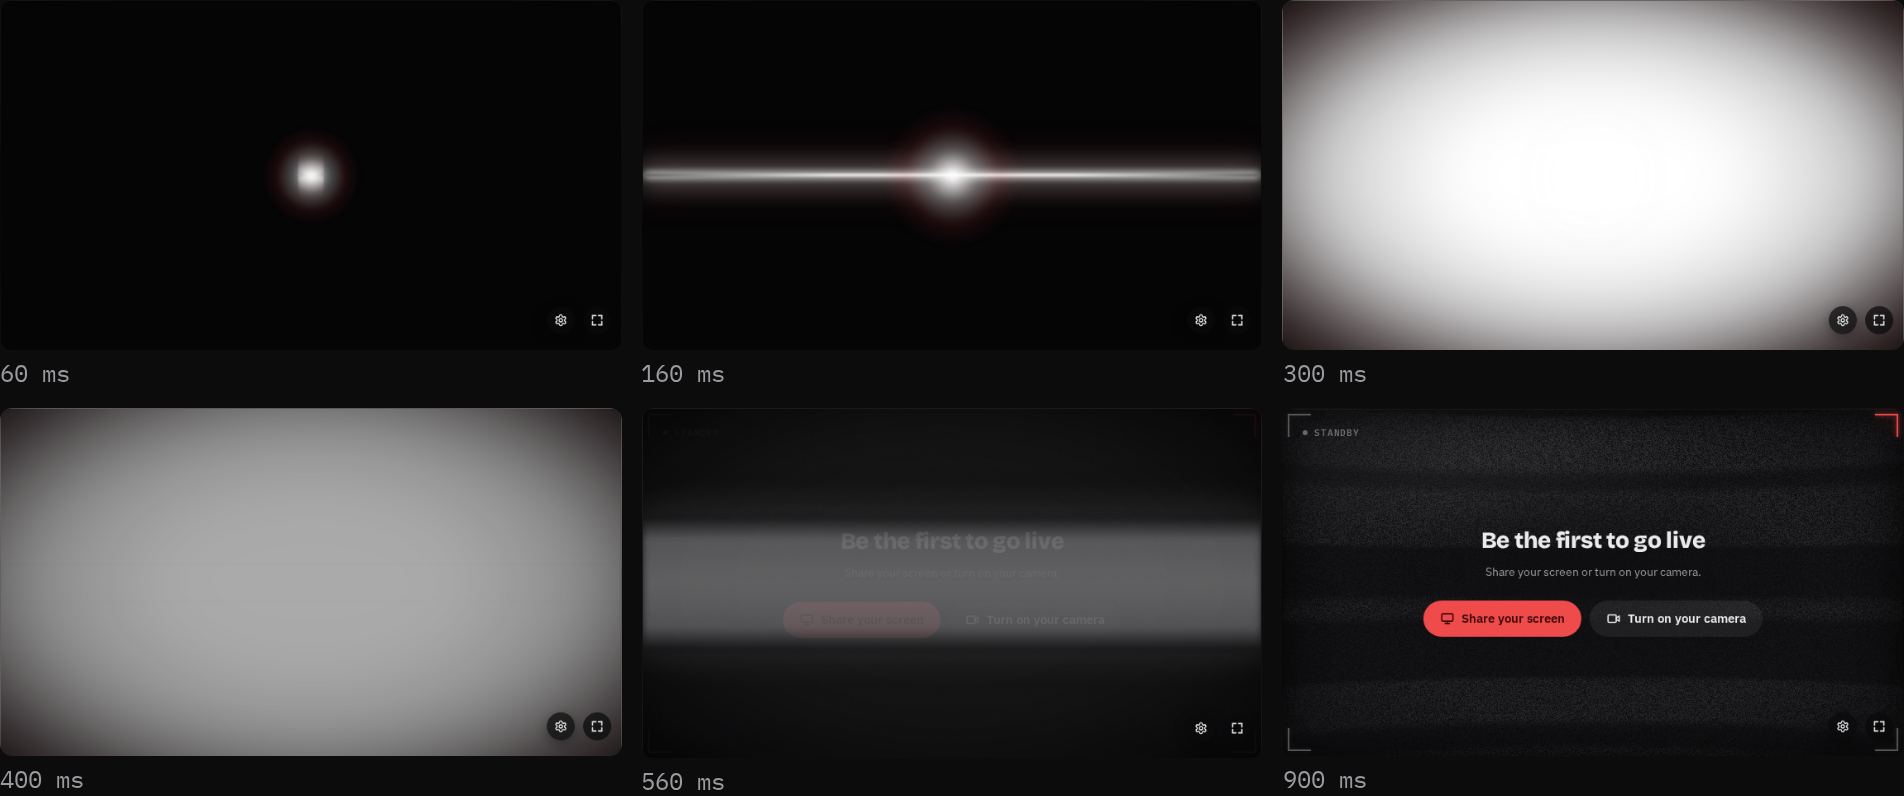
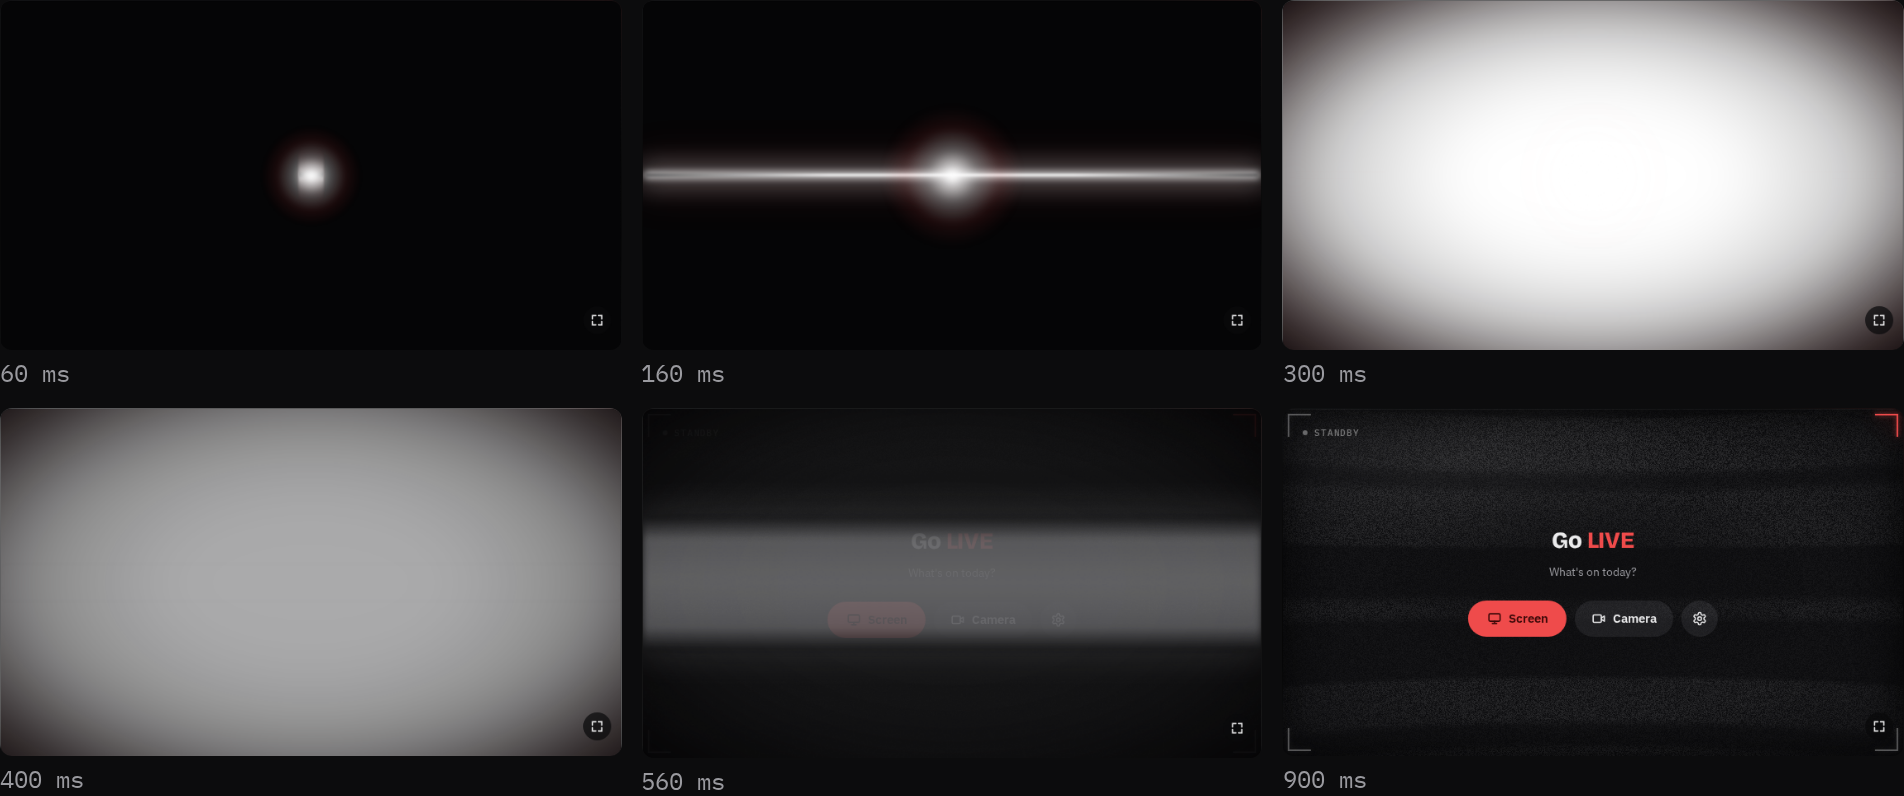
fix(web): the settings from the standby cog get the stage's height where it's short; review fixes (0138)
Where the room above the cog is short of the panel (sideways, a small
window), the panel takes the stage's whole height. The empty stage's cog
only while nobody is live, its row watched for the panel's place, a hover
like the second way's. The LIVE style test covers the standby screen
again. The design sheet: no cog in the sideways corner, the settings'
third origin, phones sideways at 34 px, the turn-on picture retaken.

diff --git a/app/src/components/stage/Stage.tsx b/app/src/components/stage/Stage.tsx
@@ -44,6 +44,8 @@ import styles from "./Stage.module.css";
 
 /** The settings over the cog sit this far above the round buttons (design decision 9). */
 const ROW_GAP = 10;
+/** The settings panel's height at its tallest tab, with its gap: less room than this above the cog, and it scrolls. */
+const PANEL_ROOM = 440;
 
 type Props = {
   /** Everyone with a live stream, the longest sharing first. */
@@ -345,16 +347,19 @@ export function Stage({
       const c = cog.getBoundingClientRect();
       host.style.setProperty("--cog-x", `${c.left + c.width / 2 - h.left}px`);
       host.style.setProperty("--above-row", `${h.bottom - (row.getBoundingClientRect().top - sliding) + ROW_GAP}px`);
-      // Sideways with nobody live, the cog is in the screen's middle: the panel takes the screen's
-      // height instead of the half above it, so it doesn't scroll (spec 0138).
-      if (nobodyLive && sideways) host.style.setProperty("--above-row", `${ROW_GAP}px`);
+      // With nobody live the cog is in the stage's middle (spec 0138): where the room above it is
+      // short of the panel (sideways, a small window), the panel takes the stage's whole height
+      // instead, so it doesn't scroll.
+      const above = row.getBoundingClientRect().top - h.top;
+      if (nobodyLive && (sideways || above < PANEL_ROOM)) host.style.setProperty("--above-row", `${ROW_GAP}px`);
     };
     place();
     window.addEventListener("resize", place);
     // The row changes too (the volume comes and goes with who's on the stage).
     const watch = typeof ResizeObserver === "undefined" ? null : new ResizeObserver(place);
     watch?.observe(host);
-    const row = controlsRef.current.querySelector("[data-buttons]");
+    // The row the cog is in: the controls', or with nobody live the empty stage's (spec 0138).
+    const row = (nobodyLive ? frameRef.current : controlsRef.current)?.querySelector("[data-buttons]");
     if (row) watch?.observe(row);
     // And once the player has finished sliding (a slide doesn't resize anything).
     const box = boxRef.current;
@@ -540,7 +545,8 @@ export function Stage({
         <EmptyStage
           canShareScreen={controls.canShareScreen}
           onStart={startMine}
-          onSettings={toggleSettings}
+          // The cog only while nobody is live: a stream loading has its own (spec 0138).
+          onSettings={big ? undefined : toggleSettings}
         />
       );
 

diff --git a/app/src/components/stage/EmptyStage.module.css b/app/src/components/stage/EmptyStage.module.css
@@ -175,7 +175,8 @@
     background: #f36a6a;
   }
 
-  .ghost:hover {
+  .ghost:hover,
+  .go .cog.cog:hover {
     background: rgba(235, 235, 236, 0.14);
   }
 }
@@ -188,8 +189,7 @@
 
 /*
  * A phone, upright or sideways (spec 0138): the desktop's screen at a phone's sizes, in the
- * stage's middle: a smaller heading and line, two equal pills (wrapping one under the other where
- * they don't fit side by side), 8 px apart.
+ * stage's middle: a smaller heading and line, and the row's buttons the stage's own size.
  */
 :global(:is([data-layout="phone"], [data-layout="sideways"])) .focus {
   gap: 8px;
@@ -270,8 +270,8 @@
   }
 }
 
-/* A short stage (a phone, upright or sideways): the heading and the buttons, nothing else,
-   centred above the stage's own buttons at the bottom. */
+/* A short stage: finer corners, no line on a desktop's (a phone keeps it), and the way to start
+   in its middle both ways, the stage's own buttons in their corner (spec 0138). */
 @container (max-height: 320px) {
   .empty {
     --arm: 16px;

diff --git a/app/src/styles/layout.test.ts b/app/src/styles/layout.test.ts
@@ -188,10 +188,12 @@ describe("clear of the phone's own bars (spec 0141)", () => {
     expect(rule(home, ".wrap")).toMatch(/background:/);
   });
 
-  it("shows LIVE in capitals and the accent on the sign-in page, written as a word (design decision 7)", () => {
-    const em = rule(home, ".title em");
-    expect(em).toMatch(/text-transform:\s*uppercase/);
-    expect(em).toMatch(/color:\s*var\(--accent\)/);
+  it("shows LIVE in capitals and the accent, written as a word (design decision 7)", () => {
+    for (const css of [home, sheet("components/stage/EmptyStage.module.css")]) {
+      const em = rule(css, ".title em");
+      expect(em).toMatch(/text-transform:\s*uppercase/);
+      expect(em).toMatch(/color:\s*var\(--accent\)/);
+    }
   });
 
   it("fits sign-in sideways: the mark and headline, then what to do, side by side", () => {

diff --git a/app/src/components/stage/EmptyStage.test.tsx b/app/src/components/stage/EmptyStage.test.tsx
@@ -36,6 +36,7 @@ describe("the empty stage, a camera waiting (spec 0123)", () => {
     const { rerender } = render(<EmptyStage />);
     // An invitation, not an order, wherever it is (spec 0138).
     expect(screen.getByText("What's on today?")).toBeInTheDocument();
+    expect(screen.queryByText(/or turn on your camera/i)).not.toBeInTheDocument();
     rerender(<EmptyStage canShareScreen={false} />);
     expect(screen.getByText("What's on today?")).toBeInTheDocument();
     expect(screen.queryByText(/turn on your camera\./i)).not.toBeInTheDocument();

diff --git a/docs/design.md b/docs/design.md
@@ -254,7 +254,7 @@ Body line height is 1.5; headings balance their lines (`text-wrap: balance`). Fo
 
 ![The settings over the cog on desktop, Screen tab](images/design/settings-popover.png) ![The settings sheet on a phone](images/design/settings-sheet.png) ![The settings over the cog on a phone held sideways, in two columns](images/design/settings-sideways.png)
 
-The settings for what you send, from the cog on my own stream, or from Go live's menu (then over Go live).
+The settings for what you send, from the cog on my own stream, from Go live's menu (then over Go live), or, with nobody live, from the cog in the standby row; there, where the room above the cog is short of the panel (sideways, a small window), the panel takes the stage's whole height instead.
 
 - **Desktop, tablets and phones held sideways: over the cog.** A popover **centred on the cog** (or on Go live), **10 px above the round buttons** (never behind them) and never past the player's sides; it fades in and rises 6 px. **Every tab has the same height**, the tallest one's, so switching tabs never moves the tabs under the pointer; at least 240 px, at most the room above the buttons (then it scrolls inside). Its width follows the player: a fifth of it, **280 to 320 px**. **Sideways it uses the width:** up to 560 px, in **two columns**, what you pick on the left (the preview and the camera, the window, the microphone) and how it's sent on the right (Quality, Mode, the voice's processing); **the left column stays put while the right one scrolls**. **Another stream taking the stage closes the settings:** they belong to the buttons they opened from. **A phone held upright** (its full-screen view too): a **bottom sheet**, no pull handle; the ✕, the cog or Escape closes it.
 - Frosted like the dropdown panels (the panel colour at 74%, blur 22 px, a 1 px white border at 8%), 16 px corners (20 px on top of the sheet). **One control height:** 30 px over the cog, 44 px in the sheet.
@@ -370,7 +370,7 @@ Turning switches layouts at once, and the stage keeps its place in the page, so 
 - **Viewfinder corners**, the screen's only frame: close to the stage's own edges on every layout, sideways too (the stage's buttons sit inside the bottom-right one), the top right red as in the logo. Finer and fainter on small stages (18 px arms, 1.5 px), and each **glows softly in its own colour**.
 - **Their light outside:** each corner glows outward too, a blurred L just outside the stage, a fade with no edge; still, following the ambilight's switch and brightness.
 - **"Standby"**, still, in small grey mono capitals with a grey dot (never red: that would mean recording), on larger stages only. Nothing else imitates equipment: no clock, meter, ruler, format tags or room number.
-- **The way to start**, with no frame of its own, in the stage's middle both ways: "Go **LIVE**" (LIVE in the accent), "What's on today?", then one row centred as a whole: **Screen**, **Camera** (one word each, two pills of one width, the first red, the second a soft fill) and a small round **settings** button, so the stage's corners hold only fullscreen. The settings open over it on a desktop, as the sheet on a phone held upright, and sideways at the screen's height. **On phones and tablets held upright** the same screen, smaller: the heading 20 px and the line 13 px, every button 34 px (the stage's own buttons' size), the camera first; a screen the browser can't share is the same pill, greyed, and a tap says why. The narrowest phone (280 px) shows only the row (the heading stays for screen readers).
+- **The way to start**, with no frame of its own, in the stage's middle both ways: "Go **LIVE**" (LIVE in the accent), "What's on today?", then one row centred as a whole: **Screen**, **Camera** (one word each, two pills of one width, the first red, the second a soft fill) and a small round **settings** button, so the stage's corners hold only fullscreen. The settings open over it on a desktop, as the sheet on a phone held upright, and sideways at the screen's height. **On phones, upright and sideways, and tablets held upright** the same screen, smaller: the heading 20 px and the line 13 px, every button 34 px (the stage's own buttons' size), the camera first; a screen the browser can't share is the same pill, greyed, and a tap says why. The narrowest phone (280 px) shows only the row (the heading stays for screen readers).
 - **The TV's static** behind it all: snow in soft horizontal bands (their gaps at 40% of the bands' brightness), shown at 17% over the stage's dark and darker behind the heading. The bands roll down together keeping their sizes, the picture sways a little as a TV losing its vertical hold, and the bands shimmer, 20 times a second. The grain is 1.5 px on a desktop's stage, finer on smaller ones (down to 0.75 px) and coarser on wider ones, keeping about 1 066 grains across, so a 4K or ultrawide screen costs what a desktop does; the bands are a share of the stage's height, so a phone shows the same picture smaller. Still for reduced motion.
 - **Curved glass, 90s style:** square corners; the glass darker towards its edges, a soft sheen high on the left, a faint line of light along the top; the bands bow gently towards the sides. Not a fisheye.
 - **The static lights the room:** its bands' light spills onto the page round the stage as they roll, measured from the static itself, so it's never brighter than the screen; it follows the ambilight's switch and brightness.
@@ -394,7 +394,7 @@ Turning switches layouts at once, and the stage keeps its place in the page, so 
 
 - **No header or footer:** the stage's box is the whole screen; the picture fills the height in its own shape, black at its sides where the light glows.
 - **A top bar** over a black gradient: who's on the stage on the left; the people button, the bell and my account on the right.
-- **The controls belong to the screen:** the round buttons and the corners' buttons sit at the **screen's** bottom, not the picture's, whatever its shape. A round arrow button at the bottom left opens the **streams row** (small pictures with names, over a black gradient), as does a swipe up; the stage's sounds start 8 px after the arrow, on its line, and go back to the edge when it moves into the open row. A phone held sideways has no fullscreen button: **Go live** (or the cog, with nobody live) takes its corner, 14 px in, like the arrow on the left.
+- **The controls belong to the screen:** the round buttons and the corners' buttons sit at the **screen's** bottom, not the picture's, whatever its shape. A round arrow button at the bottom left opens the **streams row** (small pictures with names, over a black gradient), as does a swipe up; the stage's sounds start 8 px after the arrow, on its line, and go back to the edge when it moves into the open row. A phone held sideways has no fullscreen button: **Go live** takes its corner, 14 px in, like the arrow on the left; with nobody live the corner is empty, the cog being in the standby row.
 - **The open streams row pushes the buttons up**, to 6 px above its pictures, as the settings sheet does in the full view; its gradient on top lets presses through to them. Held, a thumbnail shows its buttons over its lower part.
 - **The settings** open over the cog in two columns, so they fit the short screen without scrolling: on Camera, the preview alone on the left, the camera's picker, Quality and Mode on the right.
 - **A tap on empty space shows the controls, or hides them, every time;** a tap on a button only presses it, and a drag (a swipe) only shows them. They fade about 2.5 s after the last touch while a stream plays; **an open streams row stays** through that fade (only a tap hides it, with everything, and the next brings it back), and so does a heard voice. The row keeps its gradient: it's part of the picture's controls and fades with them, while the settings keep their panel.
